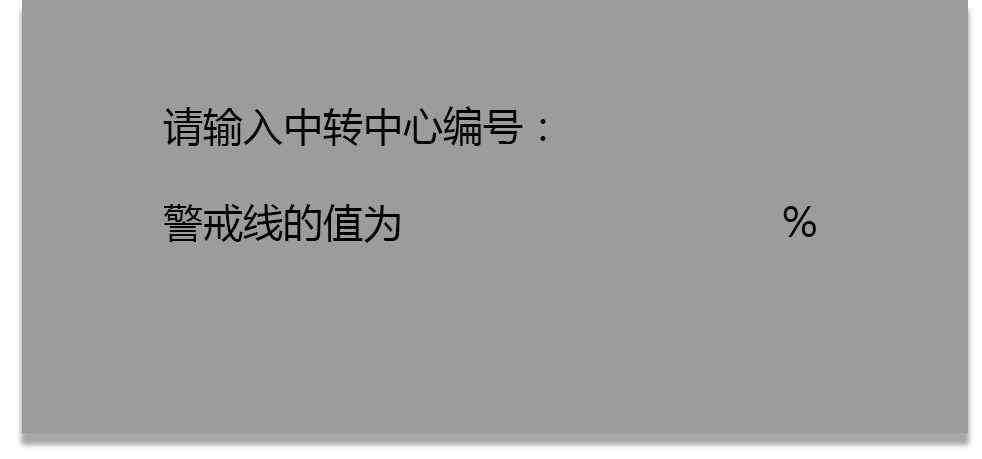
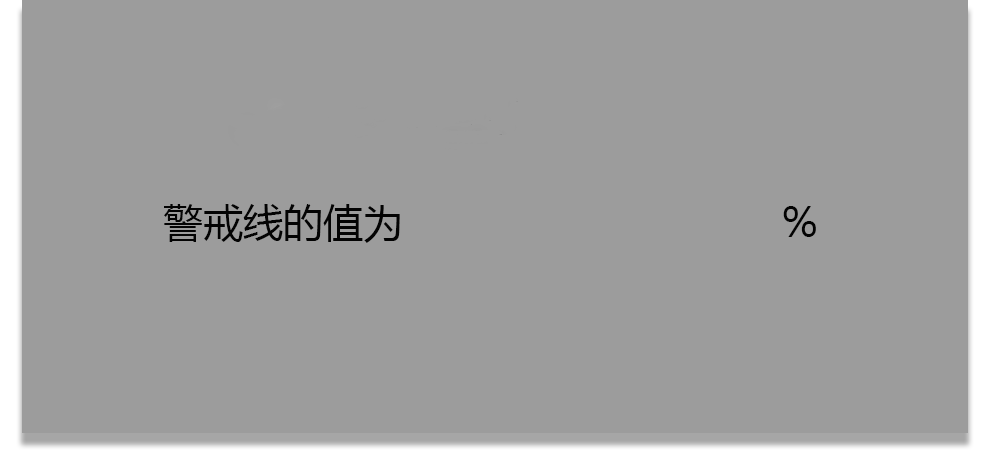
写文档前先同步

Changed region(s): [[0.1527, 0.2135, 0.5499, 0.3355]]

diff --git a/LogisticManageSystem/Client/src/main/java/edu/nju/lms/presentation/components/WarningBar.java b/LogisticManageSystem/Client/src/main/java/edu/nju/lms/presentation/components/WarningBar.java
@@ -1,0 +1,51 @@
+package edu.nju.lms.presentation.components;
+
+import java.awt.Color;
+import java.awt.Graphics;
+
+import javax.swing.JLabel;
+
+import org.dom4j.Element;
+
+import edu.nju.lms.businessLogicService.impl.warehouse.WarehouseController;
+import edu.nju.lms.presentation.UIController.UIController;
+
+/**
+ * 
+ * @author cuihao
+ *
+ */
+public class WarningBar extends JLabel{
+	
+	private static final long serialVersionUID = -5529274290876539754L;
+
+	protected int x;
+	protected int y;
+	protected int h;
+	protected int w;
+	private String name;
+	protected Element element;
+	private WarehouseController warehouse;
+	
+	public WarningBar(Element element, UIController controller) {
+		w = Integer.parseInt(element.attributeValue("w"));
+		h = Integer.parseInt(element.attributeValue("h"));
+		x = Integer.parseInt(element.attributeValue("x"));
+		y = Integer.parseInt(element.attributeValue("y"));
+		name =element.attributeValue("name");
+		this.element = element;
+		warehouse = controller.getWarehouseController();
+		setBounds(x, y, w, h);
+		initialize();
+	}
+	
+	@Override
+	protected void paintComponent(Graphics g) {
+		g.setColor(Color.lightGray);
+		g.fillRoundRect(0, h/3, w, h/3, h/3, h/3);
+	}
+	
+	private void initialize(){
+		
+	}
+}

diff --git a/LogisticManageSystem/Client/src/main/java/edu/nju/lms/presentation/setText/Warning.java b/LogisticManageSystem/Client/src/main/java/edu/nju/lms/presentation/setText/Warning.java
@@ -1,0 +1,21 @@
+package edu.nju.lms.presentation.setText;
+
+import edu.nju.lms.businessLogicService.impl.warehouse.WarehouseController;
+import edu.nju.lms.presentation.UIController.UIController;
+
+/**
+ * show cordon automatially
+ * @author cuihao
+ * 2015-12-30 11:35:17
+ */
+public class Warning extends Text{
+
+	@Override
+	public String get(UIController controller) {
+		String institution = controller.getID().substring(0, 6);
+		WarehouseController c = controller.getWarehouseController();
+		double warning = c.getCordon(institution);
+		return warning+"";
+	}
+
+}
